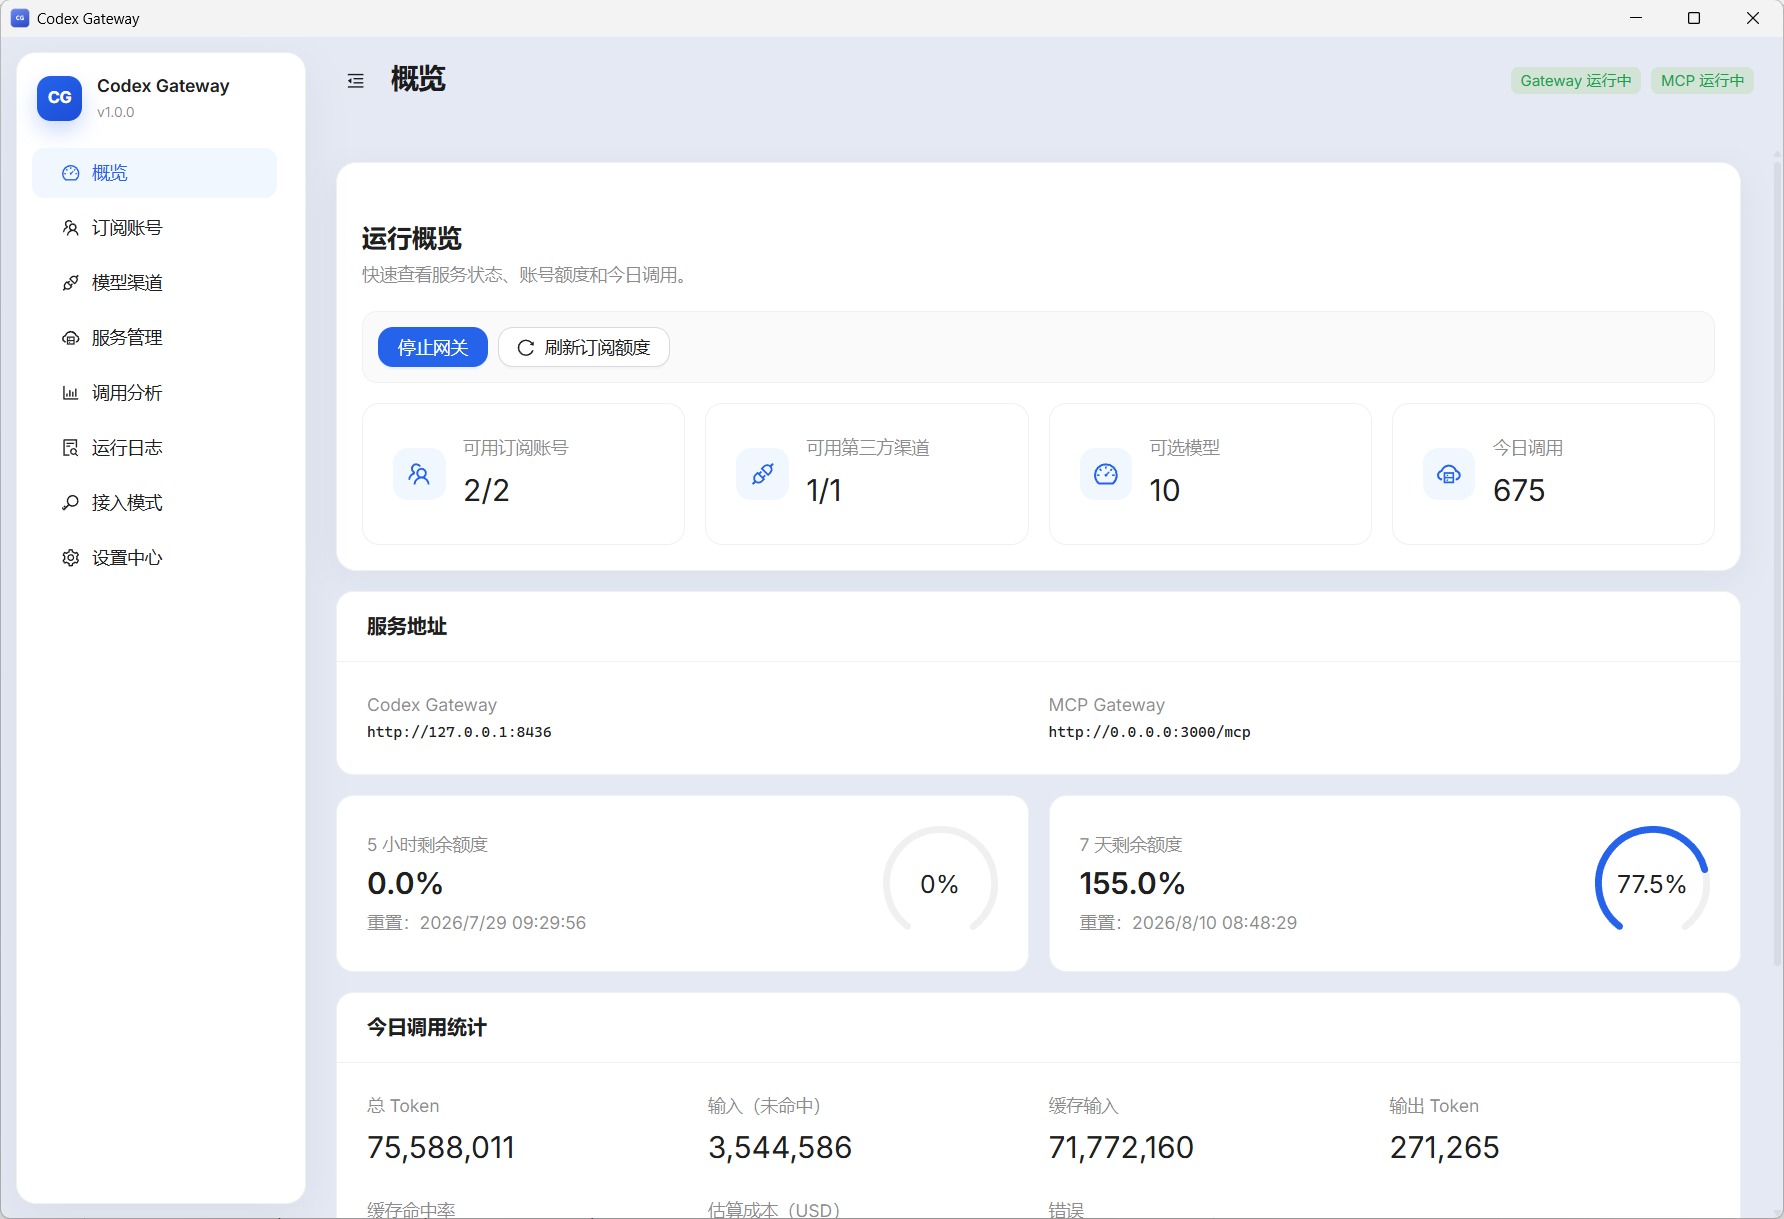
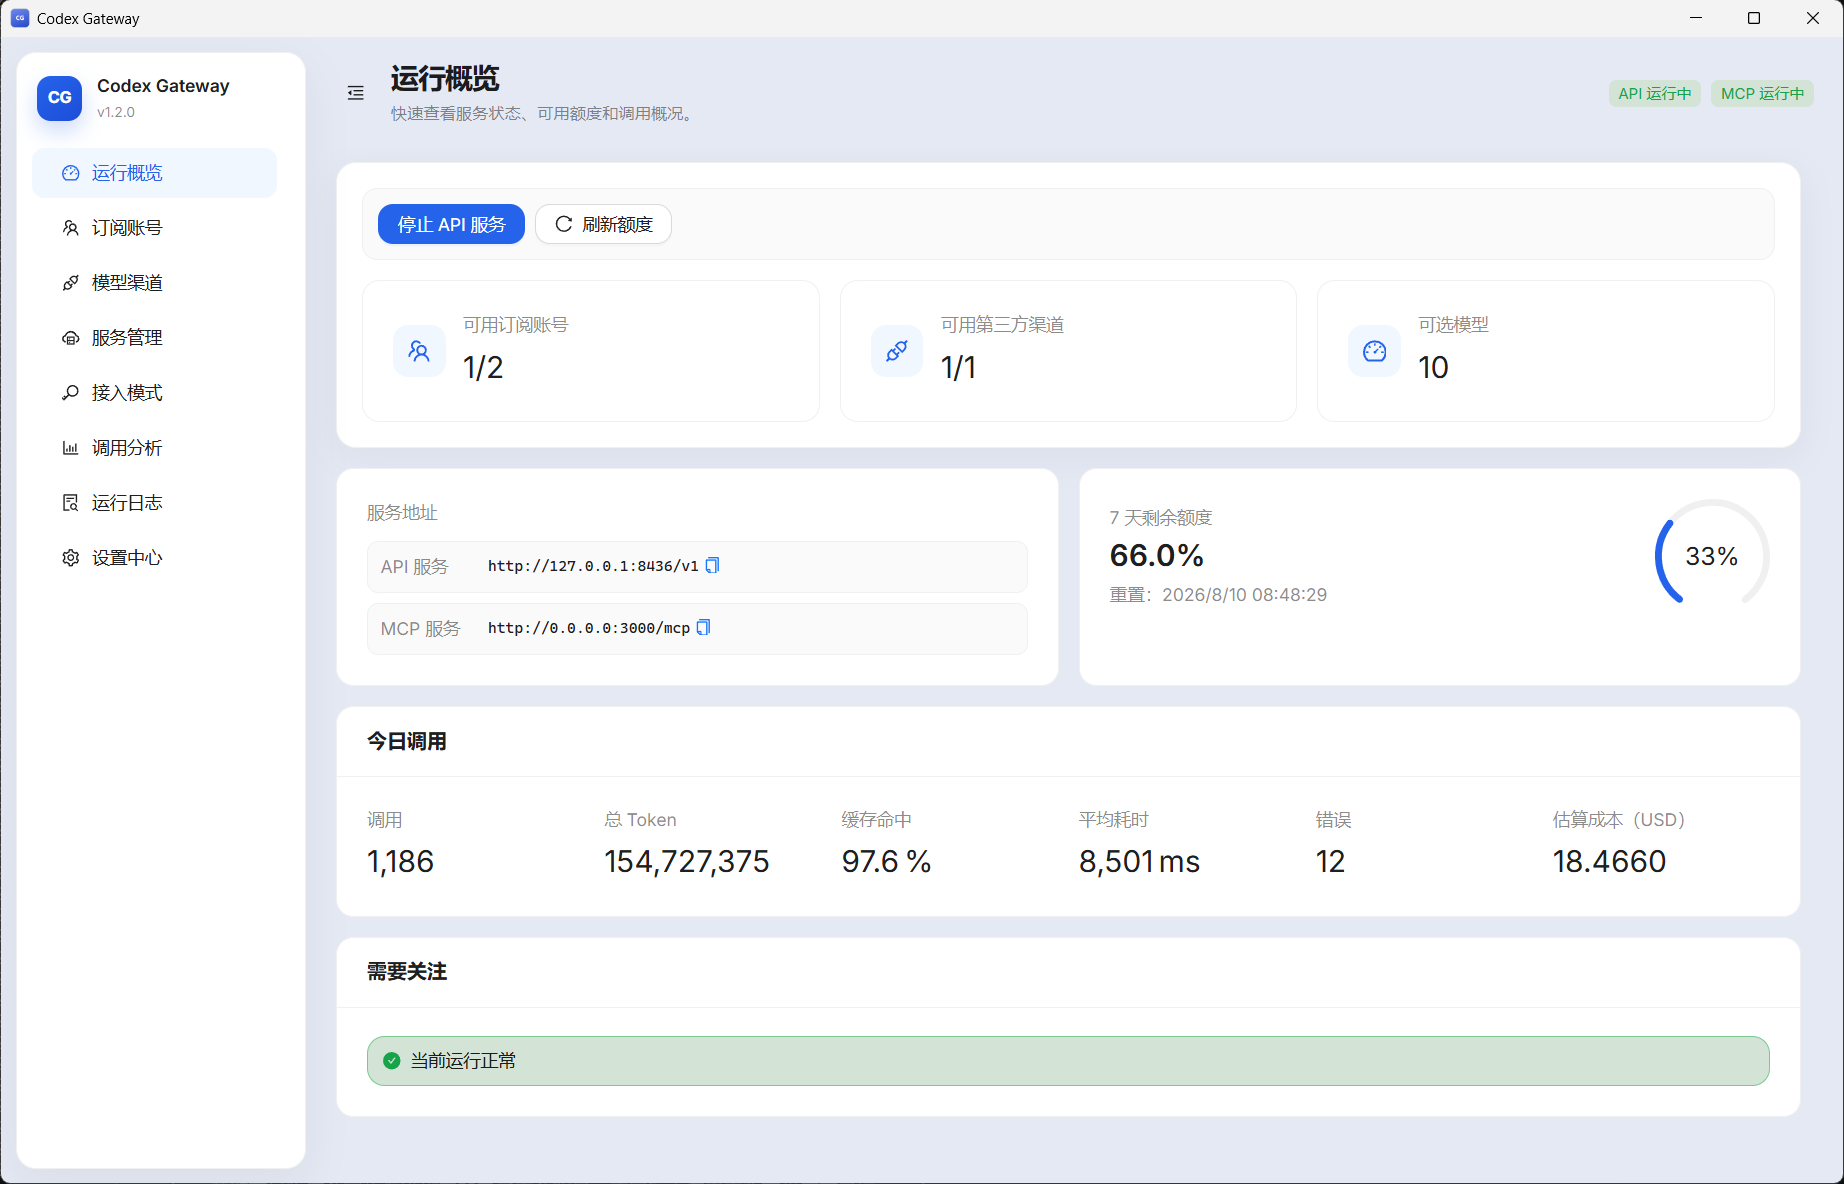
feat(renderer):统一操作按钮与常规设置样式
- 将订阅账号操作列按钮尺寸和列宽统一为模型渠道规格
- 将开机自启和关闭窗口选项改为与外观设置一致的分段选择并补充回归测试
- 更新概览效果图，并将发布版本提升至 1.2.1

diff --git a/src/renderer/features/accounts/AccountsPage.tsx b/src/renderer/features/accounts/AccountsPage.tsx
@@ -151,7 +151,7 @@ export const AccountsPage = ({
       title: "操作",
       key: "actions",
       fixed: "right",
-      width: 92,
+      width: 124,
       render: (_, account) => (
         <Space size={4}>
           <Popconfirm
@@ -160,10 +160,10 @@ export const AccountsPage = ({
             okButtonProps={{ danger: true }}
             onConfirm={() => onDelete(account.id)}
           >
-            <Button aria-label="删除账号" danger icon={<DeleteOutlined />} size="small" />
+            <Button aria-label="删除账号" danger icon={<DeleteOutlined />} />
           </Popconfirm>
           <Dropdown menu={{ items: accountActions(account) ?? [] }} trigger={["click"]}>
-            <Button aria-label="更多账号操作" icon={<MoreOutlined />} size="small" />
+            <Button aria-label="更多账号操作" icon={<MoreOutlined />} />
           </Dropdown>
         </Space>
       )

diff --git a/src/renderer/features/settings/SettingsPage.tsx b/src/renderer/features/settings/SettingsPage.tsx
@@ -145,14 +145,14 @@ export const SettingsPage = ({
       <SettingsSection title="应用行为" description="设置应用的启动和关闭方式。">
         <div className="v1-settings-grid v1-settings-grid-2">
           <Form.Item name="startup_launch" label="开机自启">
-            <Select options={[
+            <Segmented block options={[
               { label: "关闭", value: "disabled" },
               { label: "自动启动", value: "auto" },
               { label: "延迟启动", value: "delayed" }
             ]} />
           </Form.Item>
           <Form.Item name="close_behavior" label="关闭窗口时">
-            <Select options={[
+            <Segmented block options={[
               { label: "退出应用", value: "exit" },
               { label: "最小化到托盘", value: "tray" }
             ]} />

diff --git a/src/renderer/features/settings/settings.test.ts b/src/renderer/features/settings/settings.test.ts
@@ -149,6 +149,8 @@ describe("settings appearance and display units", () => {
     expect(screen.getByRole("menuitem", { name: "常规" })).toBeTruthy();
     expect(screen.getByText("应用行为")).toBeTruthy();
     expect(screen.getByText("外观")).toBeTruthy();
+    expect(screen.getByText("延迟启动")).toBeTruthy();
+    expect(screen.getByText("最小化到托盘")).toBeTruthy();
     expect(screen.queryByText("忽略 5 小时限制")).toBeNull();
     expect(screen.queryByRole("button", { name: "保存设置" })).toBeNull();
     await user.click(screen.getByRole("menuitem", { name: "账号与额度" }));
